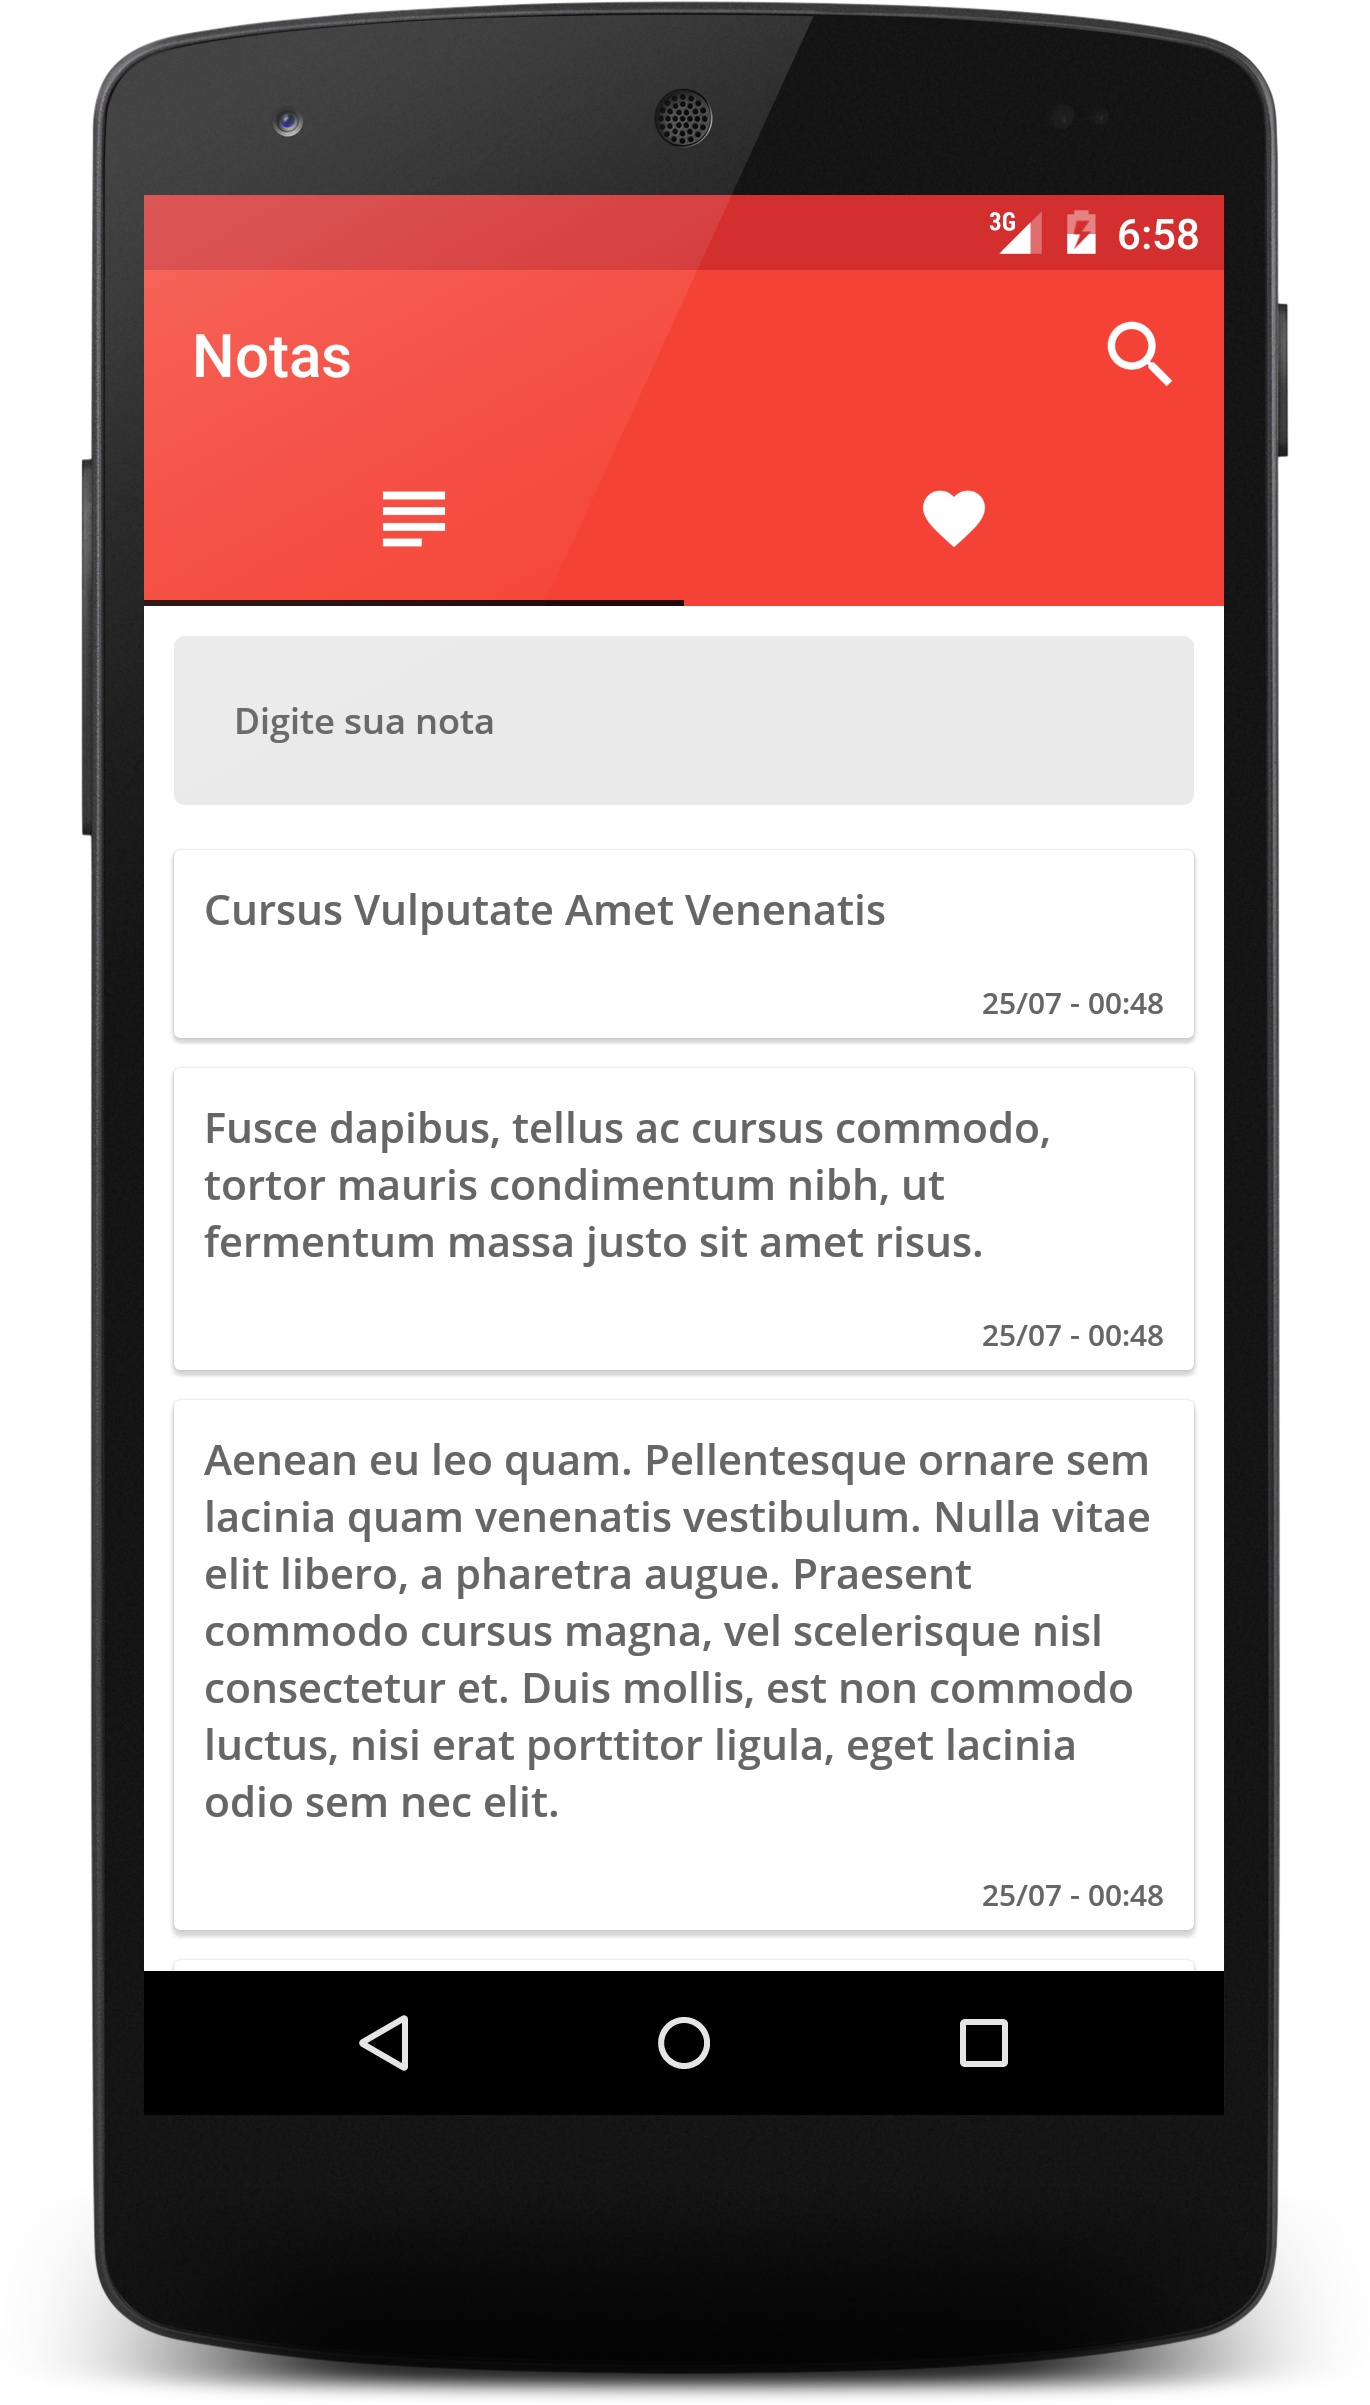
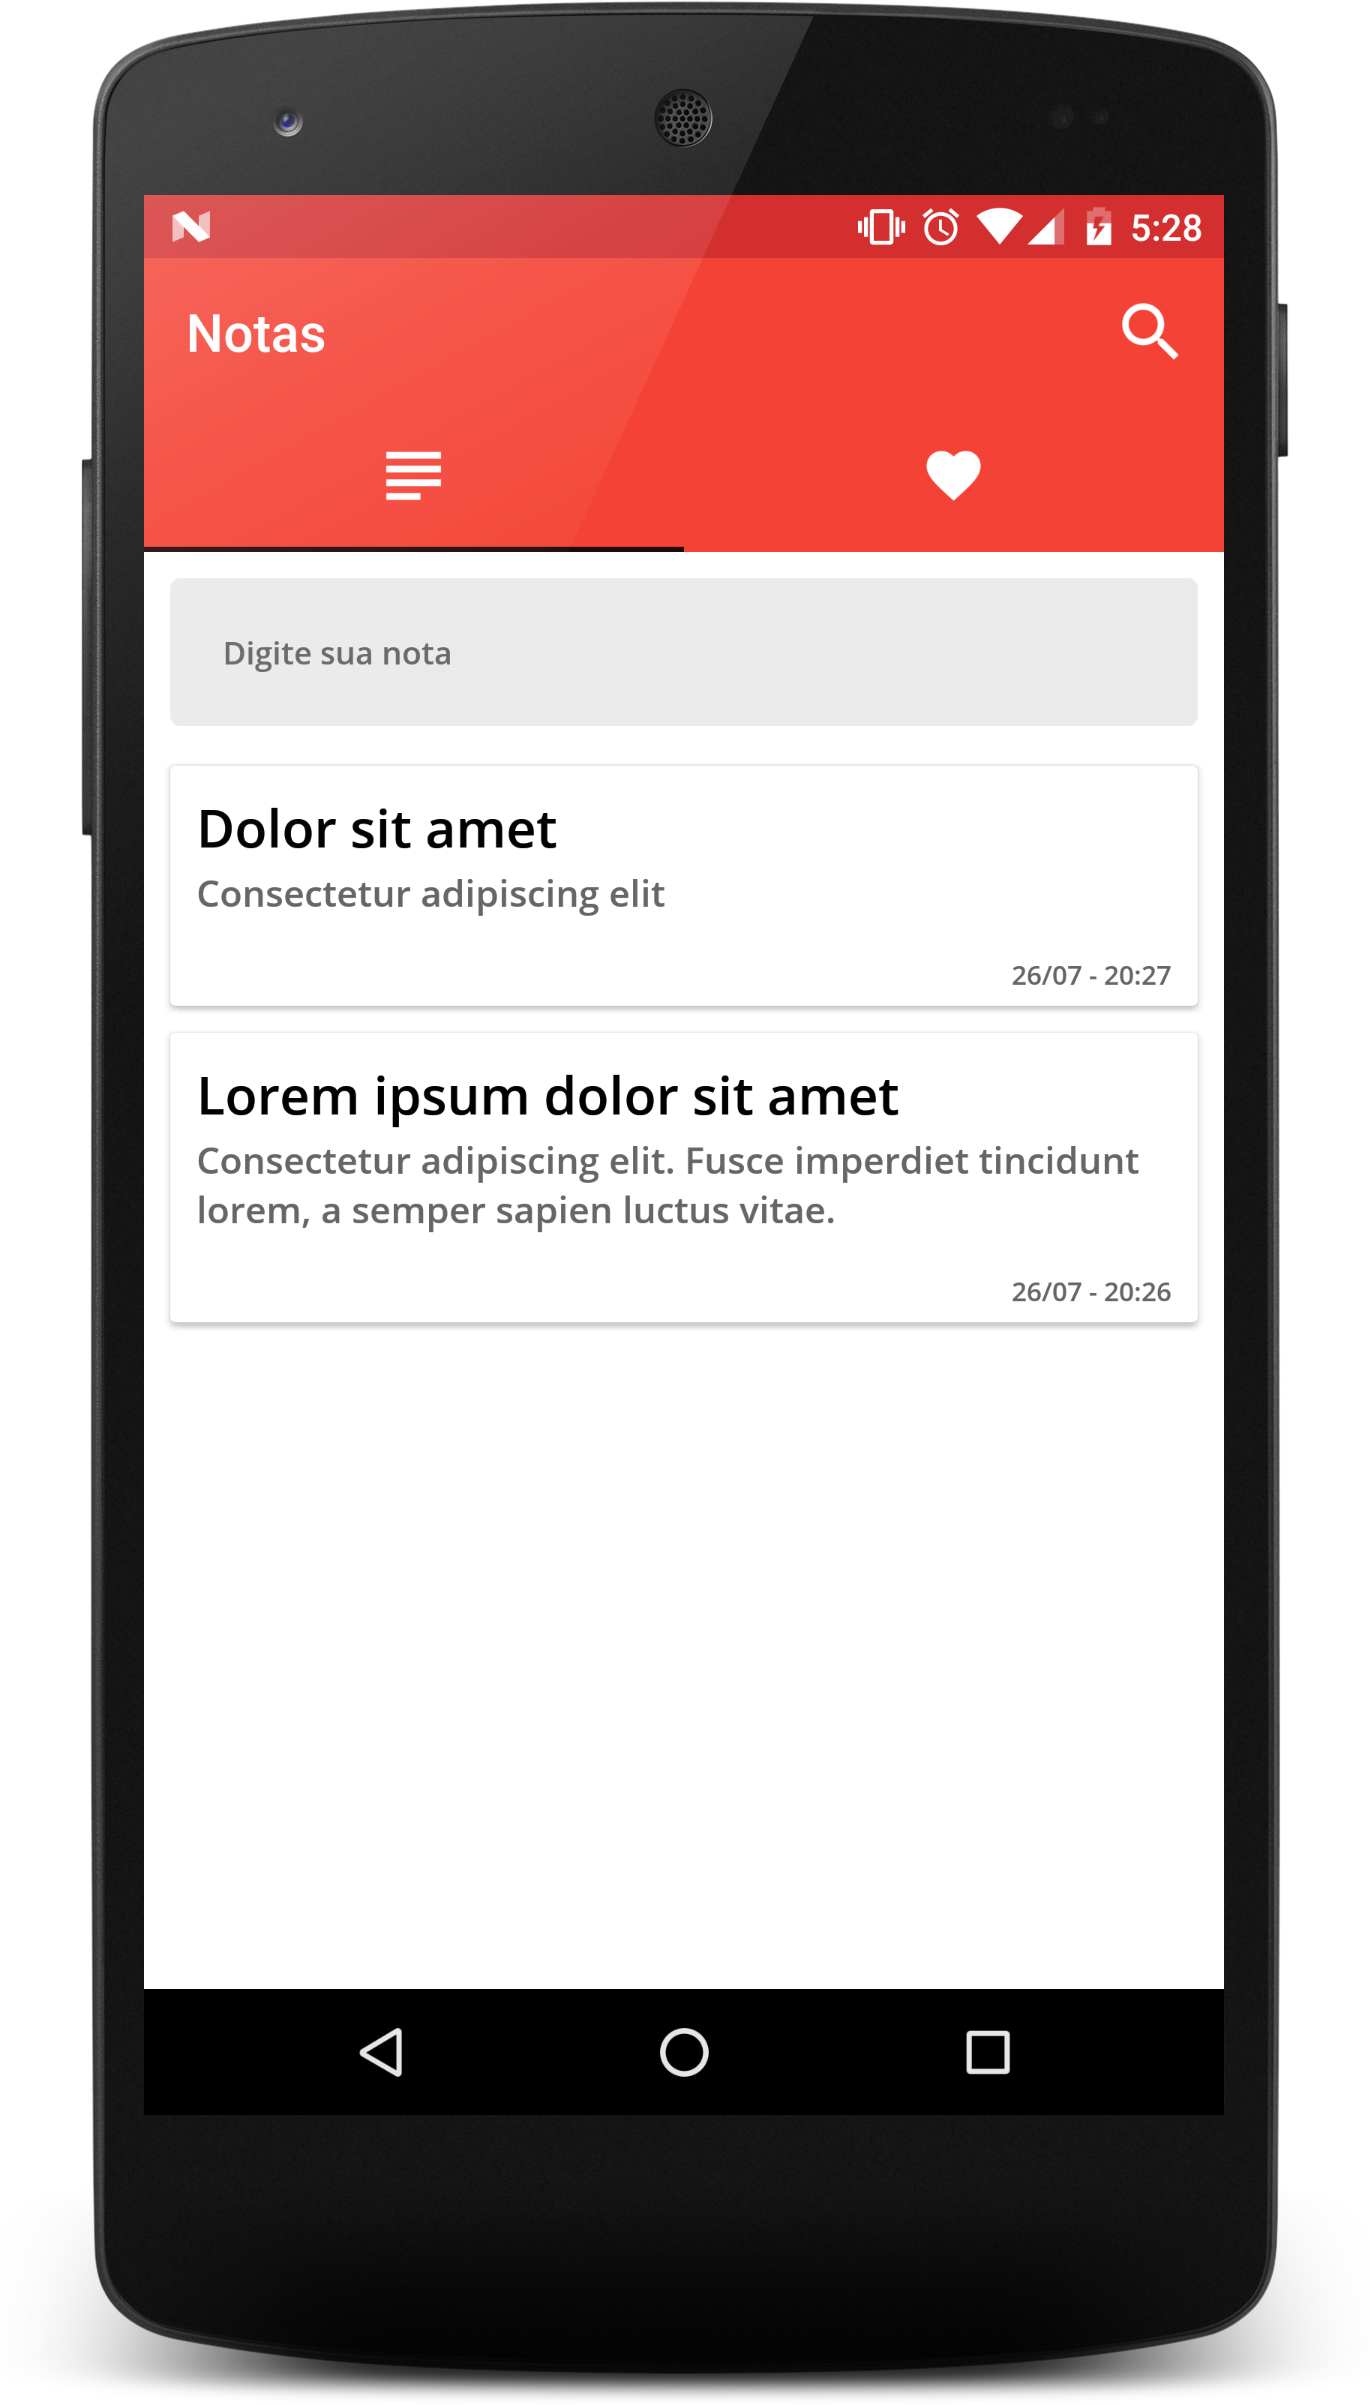
Add title Updated preview image

diff --git a/app/src/main/java/com/github/pierry/noute/ui/adapter/NoteAdapter.java b/app/src/main/java/com/github/pierry/noute/ui/adapter/NoteAdapter.java
@@ -26,14 +26,17 @@ public class NoteAdapter extends RecyclerView.Adapter<NoteAdapter.NoteHolder> {
 
   public class NoteHolder extends RecyclerView.ViewHolder {
     public TextView content;
+    public TextView title;
     public TextView timestamp;
     public CardView cardView;
 
     public NoteHolder(View view) {
       super(view);
+      title = (TextView) view.findViewById(R.id.title);
       content = (TextView) view.findViewById(R.id.content);
       timestamp = (TextView) view.findViewById(R.id.timestamp);
       cardView = (CardView) view.findViewById(R.id.cardView);
+      FontfaceHelper.setFontFace(context, title);
       FontfaceHelper.setFontFace(context, content);
       FontfaceHelper.setFontFace(context, timestamp);
     }
@@ -53,6 +56,7 @@ public class NoteAdapter extends RecyclerView.Adapter<NoteAdapter.NoteHolder> {
 
   @Override public void onBindViewHolder(NoteHolder holder, final int position) {
     Note note = notes.get(position);
+    holder.title.setText(note.getTitle());
     holder.content.setText(note.getContent());
     String date = DateHelper.date(note.getTimestamp());
     holder.timestamp.setText(date);

diff --git a/app/src/main/java/com/github/pierry/noute/NouteApp.java b/app/src/main/java/com/github/pierry/noute/NouteApp.java
@@ -1,11 +1,37 @@
 package com.github.pierry.noute;
 
 import android.support.multidex.MultiDex;
+import android.util.Log;
+import com.crashlytics.android.Crashlytics;
+import io.fabric.sdk.android.Fabric;
+import timber.log.Timber;
 
 public class NouteApp extends com.activeandroid.app.Application {
 
   @Override public void onCreate() {
     super.onCreate();
+    Fabric.with(this, new Crashlytics());
     MultiDex.install(this);
+    if (BuildConfig.DEBUG) {
+      Timber.plant(new Timber.DebugTree());
+    } else {
+      Timber.plant(new CrashReportingTree());
+    }
+  }
+
+  private static class CrashReportingTree extends Timber.Tree {
+    @Override protected void log(int priority, String tag, String message, Throwable t) {
+      if (priority == Log.VERBOSE || priority == Log.DEBUG) {
+        return;
+      }
+      Crashlytics.log(priority, tag, message);
+      if (t != null) {
+        if (priority == Log.ERROR) {
+          Crashlytics.logException(t);
+        } else if (priority == Log.WARN) {
+          Crashlytics.logException(t);
+        }
+      }
+    }
   }
 }

diff --git a/app/src/main/java/com/github/pierry/noute/domain/Note.java b/app/src/main/java/com/github/pierry/noute/domain/Note.java
@@ -7,6 +7,7 @@ import org.threeten.bp.Instant;
 
 @Table(name = "Note") public class Note extends Model {
 
+  @Column(name = "Title") String title;
   @Column(name = "Content") String content;
   @Column(name = "Timestamp") String timestamp;
   @Column(name = "BackgroundColor") String backgroundColor;
@@ -17,7 +18,8 @@ import org.threeten.bp.Instant;
     super();
   }
 
-  public Note(String content) {
+  public Note(String title, String content) {
+    this.title = title;
     this.content = content;
     this.timestamp = Instant.now().toString();
     this.kind = null;
@@ -51,5 +53,9 @@ import org.threeten.bp.Instant;
 
   public String getBackgroundColor() {
     return backgroundColor;
+  }
+
+  public String getTitle() {
+    return title;
   }
 }

diff --git a/app/src/main/java/com/github/pierry/noute/ui/fragments/NoteFragment.java b/app/src/main/java/com/github/pierry/noute/ui/fragments/NoteFragment.java
@@ -50,7 +50,6 @@ import org.androidannotations.annotations.ViewById;
   private List<Note> notes = new ArrayList<>();
   private NoteAdapter noteAdapter;
 
-
   @AfterViews void init() {
     setHasOptionsMenu(true);
     faces();
@@ -79,7 +78,8 @@ import org.androidannotations.annotations.ViewById;
 
   @Click void add() {
     String contentText = content.getText().toString();
-    Note note = new Note(contentText);
+    String[] splited = contentText.split("\n\n");
+    Note note = new Note(splited[0], splited[1]);
     noteService.create(note);
     notes.add(0, note);
     noteAdapter.notifyDataSetChanged();
